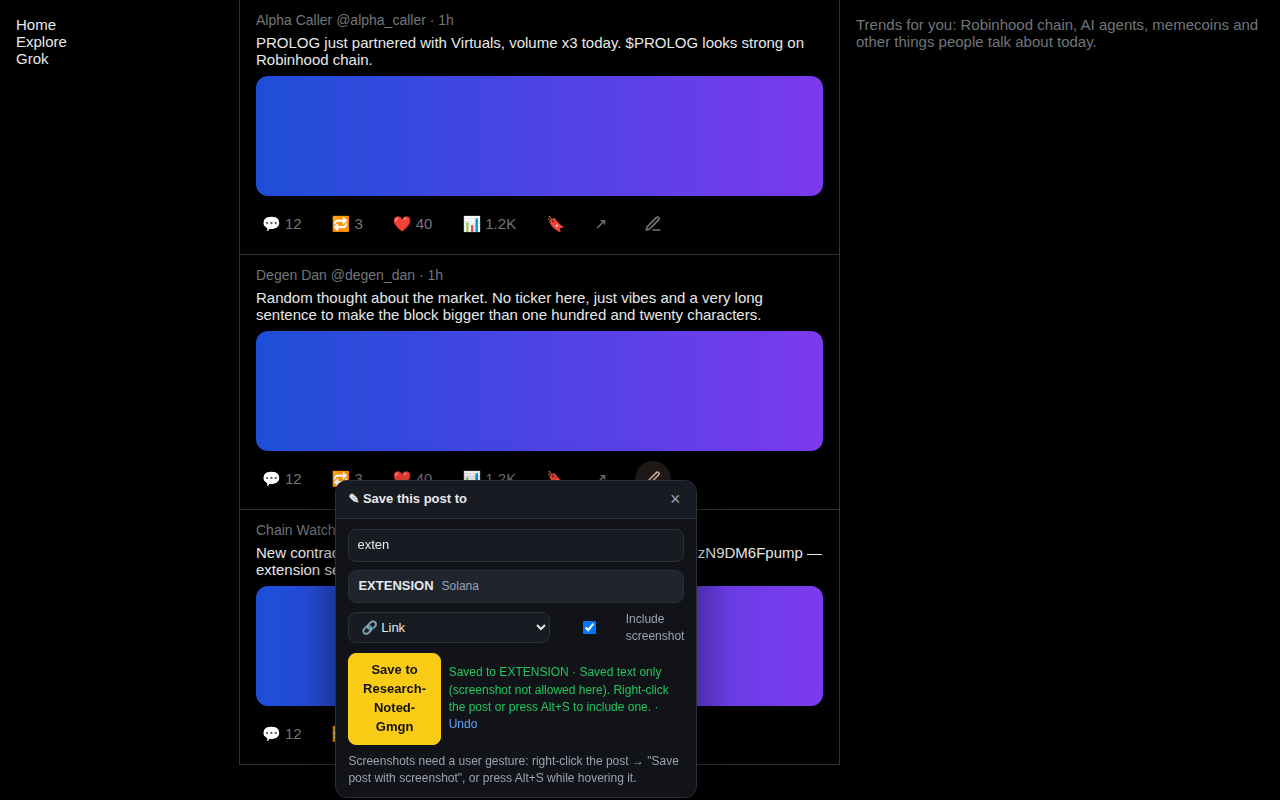
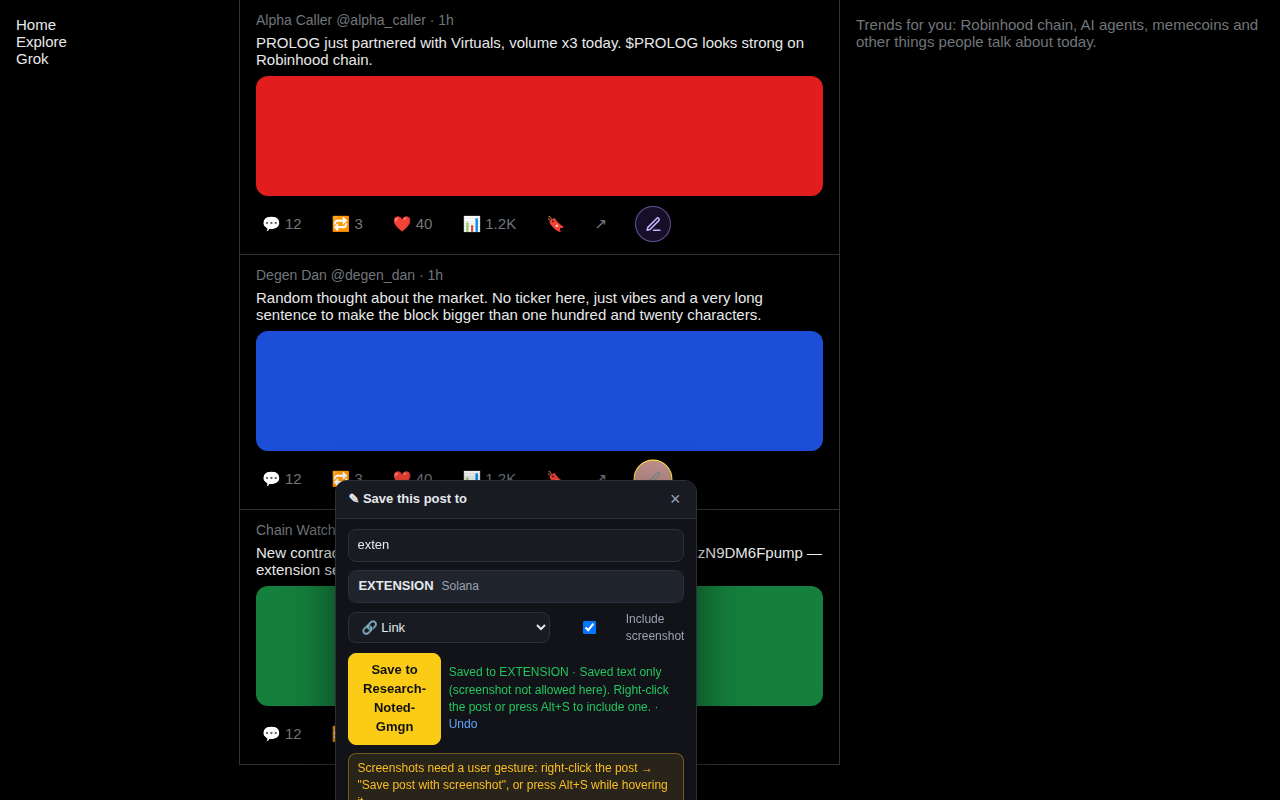
X: visible ✎ button, first-run hint, broader post detection, diagnostics
Claude-Session: https://claude.ai/code/session_0174wcpqv3PPXBc7TtfHRh6s

diff --git a/src/content/x.js b/src/content/x.js
@@ -36,13 +36,18 @@ button.save:disabled{opacity:.5;cursor:default}
 .status.ok{color:#22c55e}.status.err{color:#f87171}.status.warn{color:#fbbf24}
 .status a{color:#60a5fa;text-decoration:none}
 .empty{color:#9aa3b2;font-size:12px}
+.note{color:#fbbf24;font-size:12px;background:rgba(251,191,36,.1);border:1px solid rgba(251,191,36,.35);border-radius:8px;padding:6px 8px}
+.ob{position:fixed;right:16px;bottom:16px;z-index:2147483000;width:min(380px,calc(100vw - 32px));font:13px/1.5 -apple-system,BlinkMacSystemFont,"Segoe UI",Roboto,Arial,sans-serif;color:#e9e5ff;background:linear-gradient(180deg,#2a1f4d,#1c1730);border:1px solid rgba(167,139,250,.7);border-radius:12px;box-shadow:0 18px 48px rgba(0,0,0,.55);padding:12px 14px;display:flex;flex-direction:column;gap:8px}
+.ob b{font-size:13px}
+.ob .row{justify-content:flex-end}
+.ob button{font:inherit;cursor:pointer;border:1px solid rgba(167,139,250,.7);background:#8b5cf6;color:#fff;border-radius:8px;padding:6px 12px;font-weight:600}
 `;
   const BTN_CSS = `
-.noted-x-btn{display:inline-flex;align-items:center;justify-content:center;width:34px;height:34px;margin-left:4px;border-radius:999px;border:1px solid transparent;color:#71767b;cursor:pointer;flex:0 0 auto;transition:background .12s,color .12s}
-.noted-x-btn svg{width:18px;height:18px}
-.noted-x-btn:hover{background:rgba(139,92,246,.18);color:#a78bfa}
-.noted-x-btn--saved{color:#facc15}
-.noted-x-btn--saved:hover{background:rgba(250,204,21,.18);color:#fde047}
+.noted-x-btn{display:inline-flex;align-items:center;justify-content:center;width:34px;height:34px;margin-left:4px;border-radius:999px;border:1px solid rgba(167,139,250,.55);background:rgba(139,92,246,.16);color:#c4b5fd;cursor:pointer;flex:0 0 auto;transition:background .12s,color .12s,transform .12s}
+.noted-x-btn svg{width:17px;height:17px}
+.noted-x-btn:hover{background:#8b5cf6;color:#fff;transform:scale(1.08)}
+.noted-x-btn--saved{border-color:#fde047;background:rgba(250,204,21,.18);color:#fde047}
+.noted-x-btn--saved:hover{background:#facc15;color:#111}
 .noted-x-btn--abs{position:absolute;right:8px;top:8px;z-index:5;background:rgba(0,0,0,.4)}
 `;
   const ICON = '<svg viewBox="0 0 24 24" fill="none" stroke="currentColor" stroke-width="2.2" stroke-linecap="round" stroke-linejoin="round"><path d="M12 20h9"/><path d="M16.5 3.5a2.1 2.1 0 0 1 3 3L7 19l-4 1 1-4Z"/></svg>';
@@ -71,7 +76,8 @@ button.save:disabled{opacity:.5;cursor:default}
   });
 
   // ---------- nhận diện bài ----------
-  function articles() { return document.querySelectorAll('article[data-testid="tweet"], article[role="article"]'); }
+  // Mọi <article> trên X đều là bài đăng; data-testid="tweet" là dạng thường gặp nhưng không bắt buộc.
+  function articles() { return document.querySelectorAll('article'); }
 
   function extractTweet(article) {
     let url = '', id = '', author = '';
@@ -135,8 +141,24 @@ button.save:disabled{opacity:.5;cursor:default}
 
   function paintAll() { for (const a of articles()) paint(a); }
 
+  let onboarded = null; // null = chưa đọc setting
+  async function maybeOnboard() {
+    if (onboarded !== null) return;
+    onboarded = true;
+    try { const r = await chrome.storage.local.get('settings'); if (r.settings && r.settings.xOnboarded) return; } catch (_) { return; }
+    mount();
+    const ob = document.createElement('div');
+    ob.className = 'ob';
+    ob.innerHTML = `<style>${CSS}</style><b>✎ Research-Noted-Gmgn</b><div>${esc(t('x_onboard'))}</div><div class="row"><button type="button">${esc(t('got_it'))}</button></div>`;
+    ob.querySelector('button').addEventListener('click', async () => {
+      ob.remove();
+      try { const r = await chrome.storage.local.get('settings'); await chrome.storage.local.set({ settings: { ...(r.settings || {}), xOnboarded: true } }); } catch (_) {}
+    });
+    shadow.appendChild(ob);
+  }
+
   let scanTimer = 0;
-  function scan() { ensureButtonStyle(); for (const a of articles()) decorate(a); }
+  function scan() { ensureButtonStyle(); const list = articles(); for (const a of list) decorate(a); if (list.length) maybeOnboard(); }
   function scheduleScan() { if (scanTimer) return; scanTimer = setTimeout(() => { scanTimer = 0; scan(); }, 150); }
 
   // ---------- picker ----------
@@ -170,7 +192,7 @@ button.save:disabled{opacity:.5;cursor:default}
         <div class="row"><select class="type">${S.ENTRY_TYPES.map(x => `<option value="${x.id}" ${x.id === 'news' ? 'selected' : ''}>${x.icon} ${esc(S.entryLabel(x.id))}</option>`).join('')}</select>
           <label class="chk"><input type="checkbox" class="shot" ${shotDefault ? 'checked' : ''}> ${esc(t('x_screenshot'))}</label></div>
         <div class="row"><button class="save" type="button" disabled>${esc(t('grok_save'))}</button><span class="status"></span></div>
-        ${armed ? '' : `<div class="empty">${esc(t('x_shot_hint'))}</div>`}
+        ${armed ? '' : `<div class="note">${esc(t('x_shot_hint'))}</div>`}
       </div>`;
     shadow.appendChild(picker);
     const q = sel => picker.querySelector(sel);
@@ -257,6 +279,12 @@ button.save:disabled{opacity:.5;cursor:default}
   });
 
   // ---------- khởi động ----------
+  const VERSION = (chrome.runtime.getManifest && chrome.runtime.getManifest().version) || '?';
+  console.info(`[Research-Noted-Gmgn] X content script loaded (v${VERSION}) on ${location.pathname}`);
+  setTimeout(() => {
+    const n = articles().length, b = document.querySelectorAll('.noted-x-btn').length;
+    console.info(`[Research-Noted-Gmgn] X: ${n} posts detected, ${b} buttons injected${n && !b ? ' — please report this line' : ''}`);
+  }, 5000);
   I.init().then(loadData).then(() => { scan(); });
   new MutationObserver(scheduleScan).observe(document.documentElement, { childList: true, subtree: true });
   setInterval(scheduleScan, 15000);

diff --git a/src/lib/i18n.js b/src/lib/i18n.js
@@ -45,6 +45,7 @@
     bad_url: 'Not a gmgn token URL. Expected: https://gmgn.ai/{chain}/token/{address}',
     imported: 'Imported: {added} new projects, {merged} merged.', import_failed: 'Import failed: {error}',
     follow_page: 'Side panel follows the token you open (gmgn, DexScreener)',
+    x_onboard: 'Research-Noted-Gmgn is on X: click the ✎ button under a post to save it into a project. For a screenshot, right-click the post → "Save post with screenshot", or press Alt+S while hovering it.', got_it: 'Got it',
     x_pick: 'Save this post to', x_suggested: 'Suggested', x_search_ph: 'Search project…', x_screenshot: 'Include screenshot', x_type: 'Entry type',
     x_saved: 'Saved to {symbol}', x_saved_btn: 'Saved to {symbol} — click to save again', x_btn: 'Save this post to a note', x_no_projects: 'No notes yet. Create one on gmgn or DexScreener first.',
     x_shot_hint: 'Screenshots need a user gesture: right-click the post → "Save post with screenshot", or press Alt+S while hovering it.',
@@ -100,6 +101,7 @@
     bad_url: 'Không nhận ra URL token gmgn. Dạng đúng: https://gmgn.ai/{chain}/token/{address}',
     imported: 'Đã nhập: {added} dự án mới, {merged} dự án được gộp.', import_failed: 'Nhập thất bại: {error}',
     follow_page: 'Side panel tự chuyển theo token đang mở (gmgn, DexScreener)',
+    x_onboard: 'Research-Noted-Gmgn đang chạy trên X: bấm nút ✎ dưới mỗi bài để lưu vào dự án. Muốn kèm ảnh chụp: chuột phải vào bài → "Save post with screenshot", hoặc Alt+S khi rê chuột lên bài.', got_it: 'Đã hiểu',
     x_pick: 'Lưu bài này vào', x_suggested: 'Gợi ý', x_search_ph: 'Tìm dự án…', x_screenshot: 'Kèm ảnh chụp', x_type: 'Loại mốc',
     x_saved: 'Đã lưu vào {symbol}', x_saved_btn: 'Đã lưu vào {symbol} — bấm để lưu thêm', x_btn: 'Lưu bài này vào ghi chú', x_no_projects: 'Chưa có ghi chú nào. Tạo trước trên gmgn hoặc DexScreener.',
     x_shot_hint: 'Chụp ảnh cần thao tác gọi extension: chuột phải vào bài → "Save post with screenshot", hoặc Alt+S khi rê chuột lên bài.',
@@ -155,6 +157,7 @@
     bad_url: '无法识别的 gmgn 代币链接。正确格式：https://gmgn.ai/{chain}/token/{address}',
     imported: '已导入：{added} 个新项目，{merged} 个已合并。', import_failed: '导入失败：{error}',
     follow_page: '侧边栏跟随当前打开的代币（gmgn、DexScreener）',
+    x_onboard: 'Research-Noted-Gmgn 已在 X 上运行：点击帖子下方的 ✎ 按钮即可保存到项目。要附带截图，请右键帖子 →「Save post with screenshot」，或将鼠标悬停在帖子上按 Alt+S。', got_it: '知道了',
     x_pick: '把这条帖子保存到', x_suggested: '推荐', x_search_ph: '搜索项目…', x_screenshot: '附带截图', x_type: '记录类型',
     x_saved: '已保存到 {symbol}', x_saved_btn: '已保存到 {symbol} — 点击可再次保存', x_btn: '把这条帖子保存到笔记', x_no_projects: '还没有笔记。请先在 gmgn 或 DexScreener 上创建。',
     x_shot_hint: '截图需要用户手势：右键帖子 →「Save post with screenshot」，或将鼠标悬停在帖子上按 Alt+S。',

diff --git a/test/e2e.js b/test/e2e.js
@@ -410,6 +410,14 @@ const drawerOpen = page => page.evaluate(() => !!document.getElementById('noted-
   await xp.goto('https://x.com/home');
   await xp.waitForFunction(() => document.querySelectorAll('.noted-x-btn').length === 3, null, { timeout: 10000 });
   assert(await xp.$eval('article', a => a.querySelector('[role="group"] .noted-x-btn') !== null), 'nút ✎ nằm trong thanh hành động của bài');
+  await xp.waitForFunction(() => document.getElementById('noted-x-host')?.shadowRoot.querySelector('.ob'), null, { timeout: 5000 });
+  assert((await xp.evaluate(() => document.getElementById('noted-x-host').shadowRoot.querySelector('.ob').textContent)).includes('Alt+S'), 'lần đầu vào X hiện hướng dẫn (✎ để lưu, chuột phải/Alt+S để kèm ảnh)');
+  await xp.evaluate(() => document.getElementById('noted-x-host').shadowRoot.querySelector('.ob button').click());
+  await xp.waitForTimeout(300);
+  await xp.reload();
+  await xp.waitForFunction(() => document.querySelectorAll('.noted-x-btn').length === 3, null, { timeout: 10000 });
+  await xp.waitForTimeout(500);
+  assert(!(await xp.evaluate(() => !!document.getElementById('noted-x-host')?.shadowRoot.querySelector('.ob'))), 'bấm "Got it" thì không hiện lại');
   await xp.click('article:nth-of-type(1) .noted-x-btn');
   const xq = (sel, prop = 'textContent') => xp.evaluate(([s, p]) => { const el = document.getElementById('noted-x-host').shadowRoot.querySelector(s); return el ? el[p] : null; }, [sel, prop]);
   const xclick = sel => xp.evaluate(s => document.getElementById('noted-x-host').shadowRoot.querySelector(s).click(), sel);
